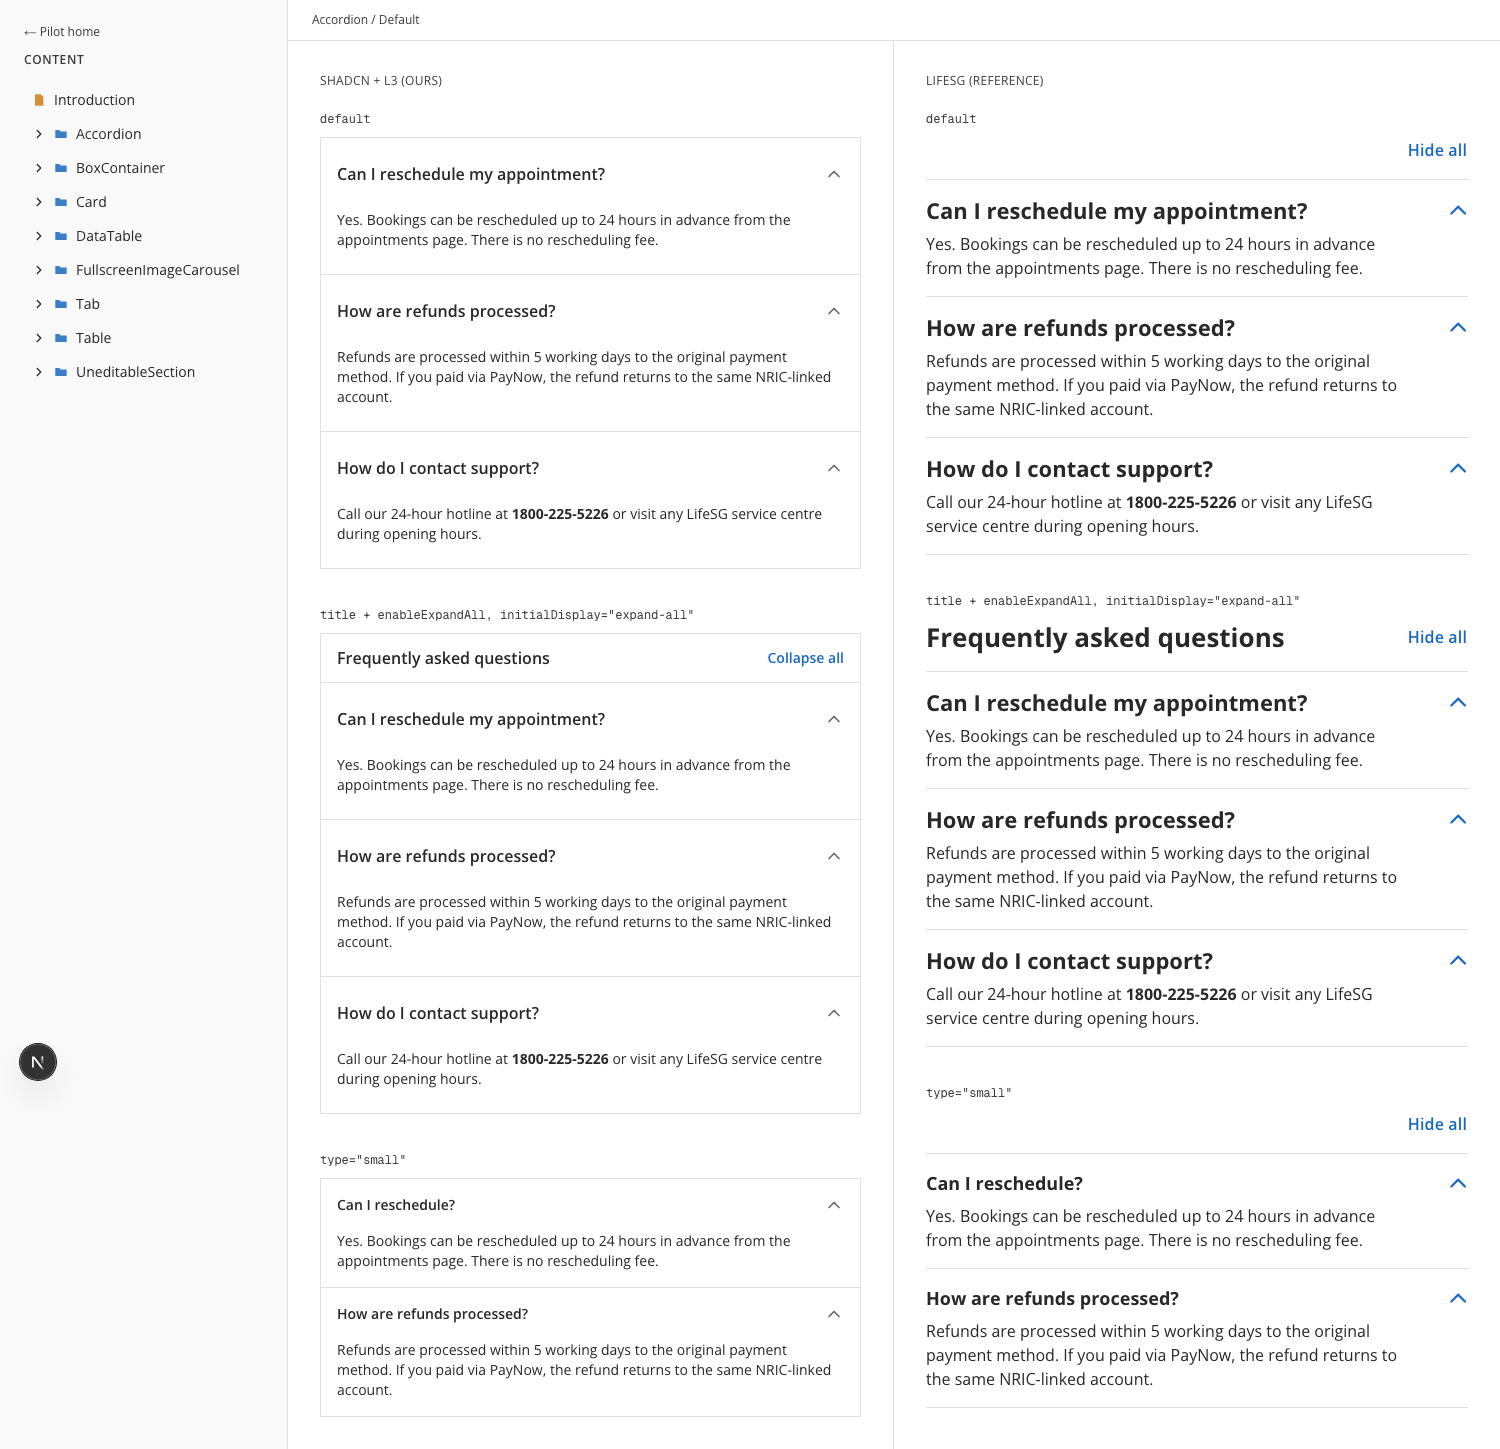
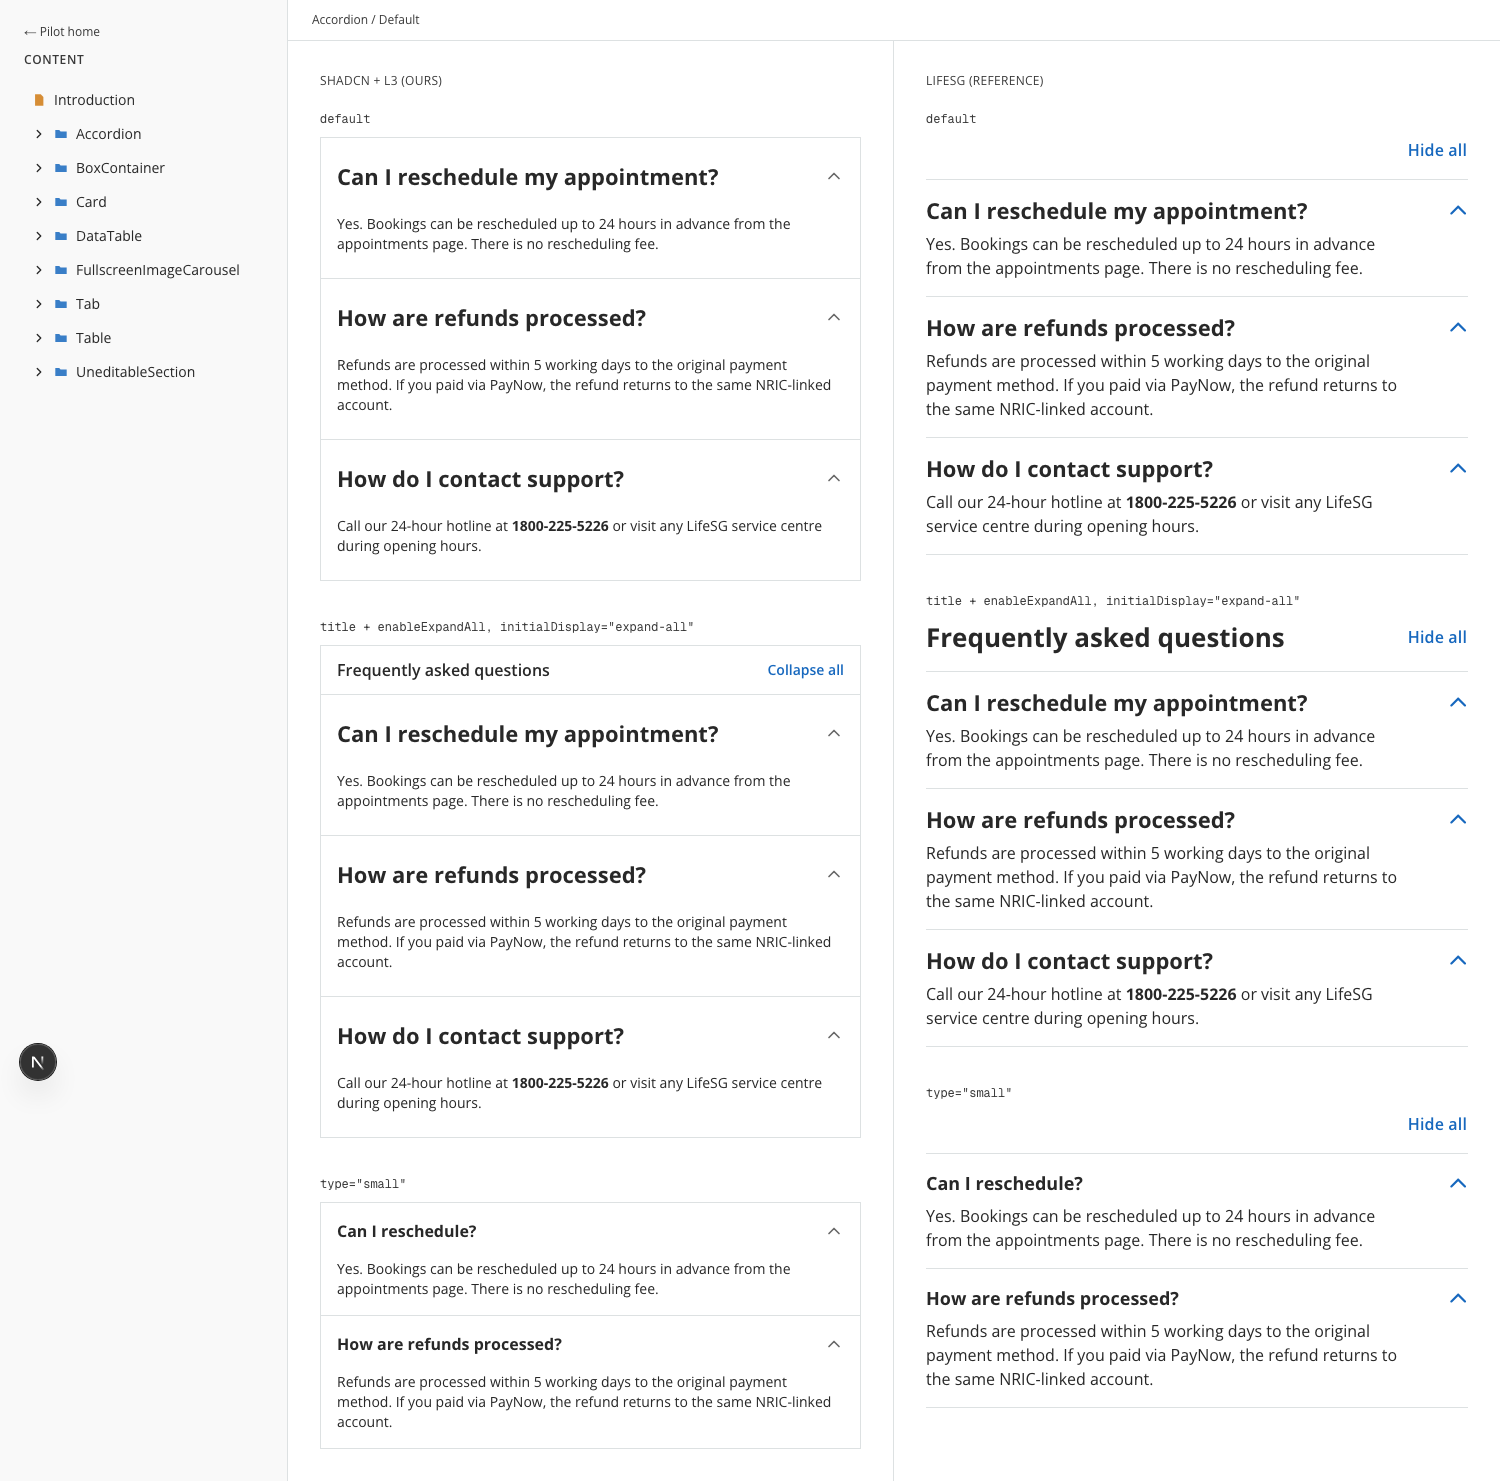
Restore table/data-table borders + tune accordion title to LifeSG heading
Three user-spotted regressions caught in visual review:

1. Table + DataTable had no visible outline. Two-part root cause:
   - --table-border was defined in content-tokens.css but never mapped
     to --color-table-border in globals.css @theme inline (same shape as
     the prior card-shadow bug). Fixed by adding the mapping.
   - TableContainer + DataTable wrappers didn't use border-* utility
     at all. Added `border border-table-border` and
     `border border-data-table-border` respectively.

2. Accordion titles rendered at 16px/600 in ours vs 22px/700 in
   LifeSG — LifeSG treats accordion titles as heading-prominent. Tuned
   our trigger title span to text-typography-heading-sm
   leading-typography-heading-sm font-bold (default variant); small
   variant kept at text-base.

Re-baselined affected screenshots after fixes verified at dev server.

Avatar + Masthead questions answered in chat as ours-is-better /
LifeSG-outlier — no code change:
- Avatar: ours uses rounded-full overflow-hidden (modern convention);
  LifeSG uses round container + overflow visible (rectangular images).
- Masthead: ours uses project Open Sans 12/18; LifeSG's web component
  ships bundled Inter 12/16. Open Sans is the LifeSG-wide standard;
  the WC font is the outlier within LifeSG itself.

diff --git a/src/components/ui/accordion.tsx b/src/components/ui/accordion.tsx
@@ -117,11 +117,18 @@ function AccordionRoot({
               <Accordion.Trigger
                 className={cn(
                   "group w-full flex items-center gap-3 px-accordion-x text-left cursor-pointer hover:bg-lifesg-bg-hover focus-visible:outline-2 focus-visible:outline-offset-[-2px] focus-visible:outline-lifesg-border-focus",
-                  small ? "py-4 text-sm" : "py-6 text-base",
-                  "font-semibold text-lifesg-text"
+                  small ? "py-4" : "py-6",
+                  "text-lifesg-text"
                 )}
               >
-                <span className="flex-1 min-w-0">{item.props.title}</span>
+                <span
+                  className={cn(
+                    "flex-1 min-w-0 font-bold",
+                    small ? "text-base leading-6" : "text-typography-heading-sm leading-typography-heading-sm"
+                  )}
+                >
+                  {item.props.title}
+                </span>
                 <ChevronDown
                   aria-hidden
                   className={cn(

diff --git a/src/app/globals.css b/src/app/globals.css
@@ -319,6 +319,7 @@
   --color-local-nav-rail-selected:           var(--local-nav-rail-selected);
 
   /* L3 — table */
+  --color-table-border:                      var(--table-border);
   --color-table-head-bg:                     var(--table-head-bg);
   --color-table-head-text:                   var(--table-head-text);
   --color-table-row-bg-hover:                var(--table-row-bg-hover);

diff --git a/src/components/ui/table.tsx b/src/components/ui/table.tsx
@@ -6,7 +6,7 @@ function TableContainer({ className, ...props }: React.HTMLAttributes<HTMLDivEle
     <div
       data-slot="table-container"
       className={cn(
-        "rounded-table overflow-hidden",
+        "rounded-table overflow-hidden border border-table-border",
         className
       )}
       {...props}

diff --git a/src/components/ui/data-table.tsx b/src/components/ui/data-table.tsx
@@ -132,7 +132,7 @@ export function DataTable({
       id={id}
       data-slot="data-table"
       className={cn(
-        "rounded-data-table overflow-hidden",
+        "rounded-data-table overflow-hidden border border-data-table-border",
         className
       )}
     >
